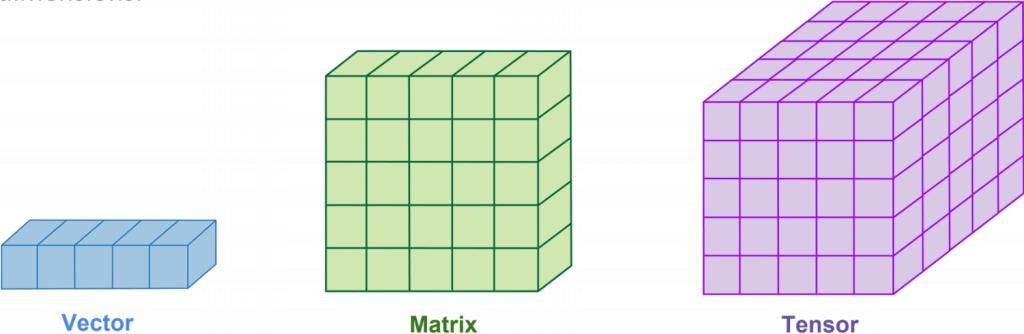
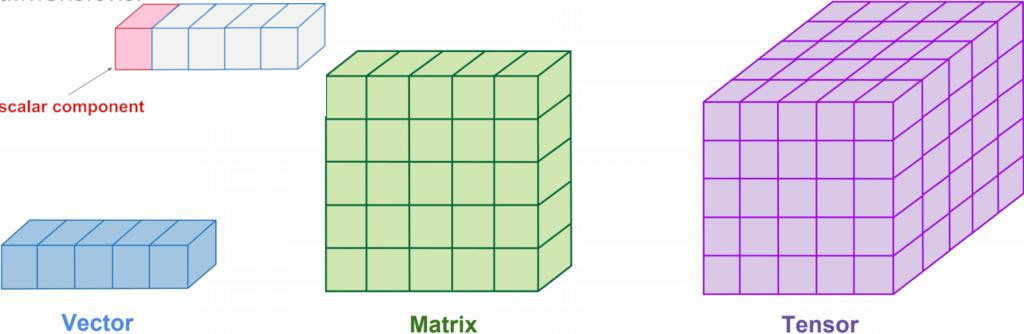
Add Documentation for Tensors

Changed region(s): [[0.0938, 0.0, 0.3438, 0.2395], [0.0, 0.2994, 0.1562, 0.3593]]

diff --git a/ejemplos/avanzado/tensorflow/README.rst b/ejemplos/avanzado/tensorflow/README.rst
@@ -1,7 +1,8 @@
 
-Tensors
-=======
+Intro to Tensors
+================
 
+- Whats a Scalar?.
 - Whats a Vector?.
 - Whats a Matrix?.
 - Whats a Tensor?.
